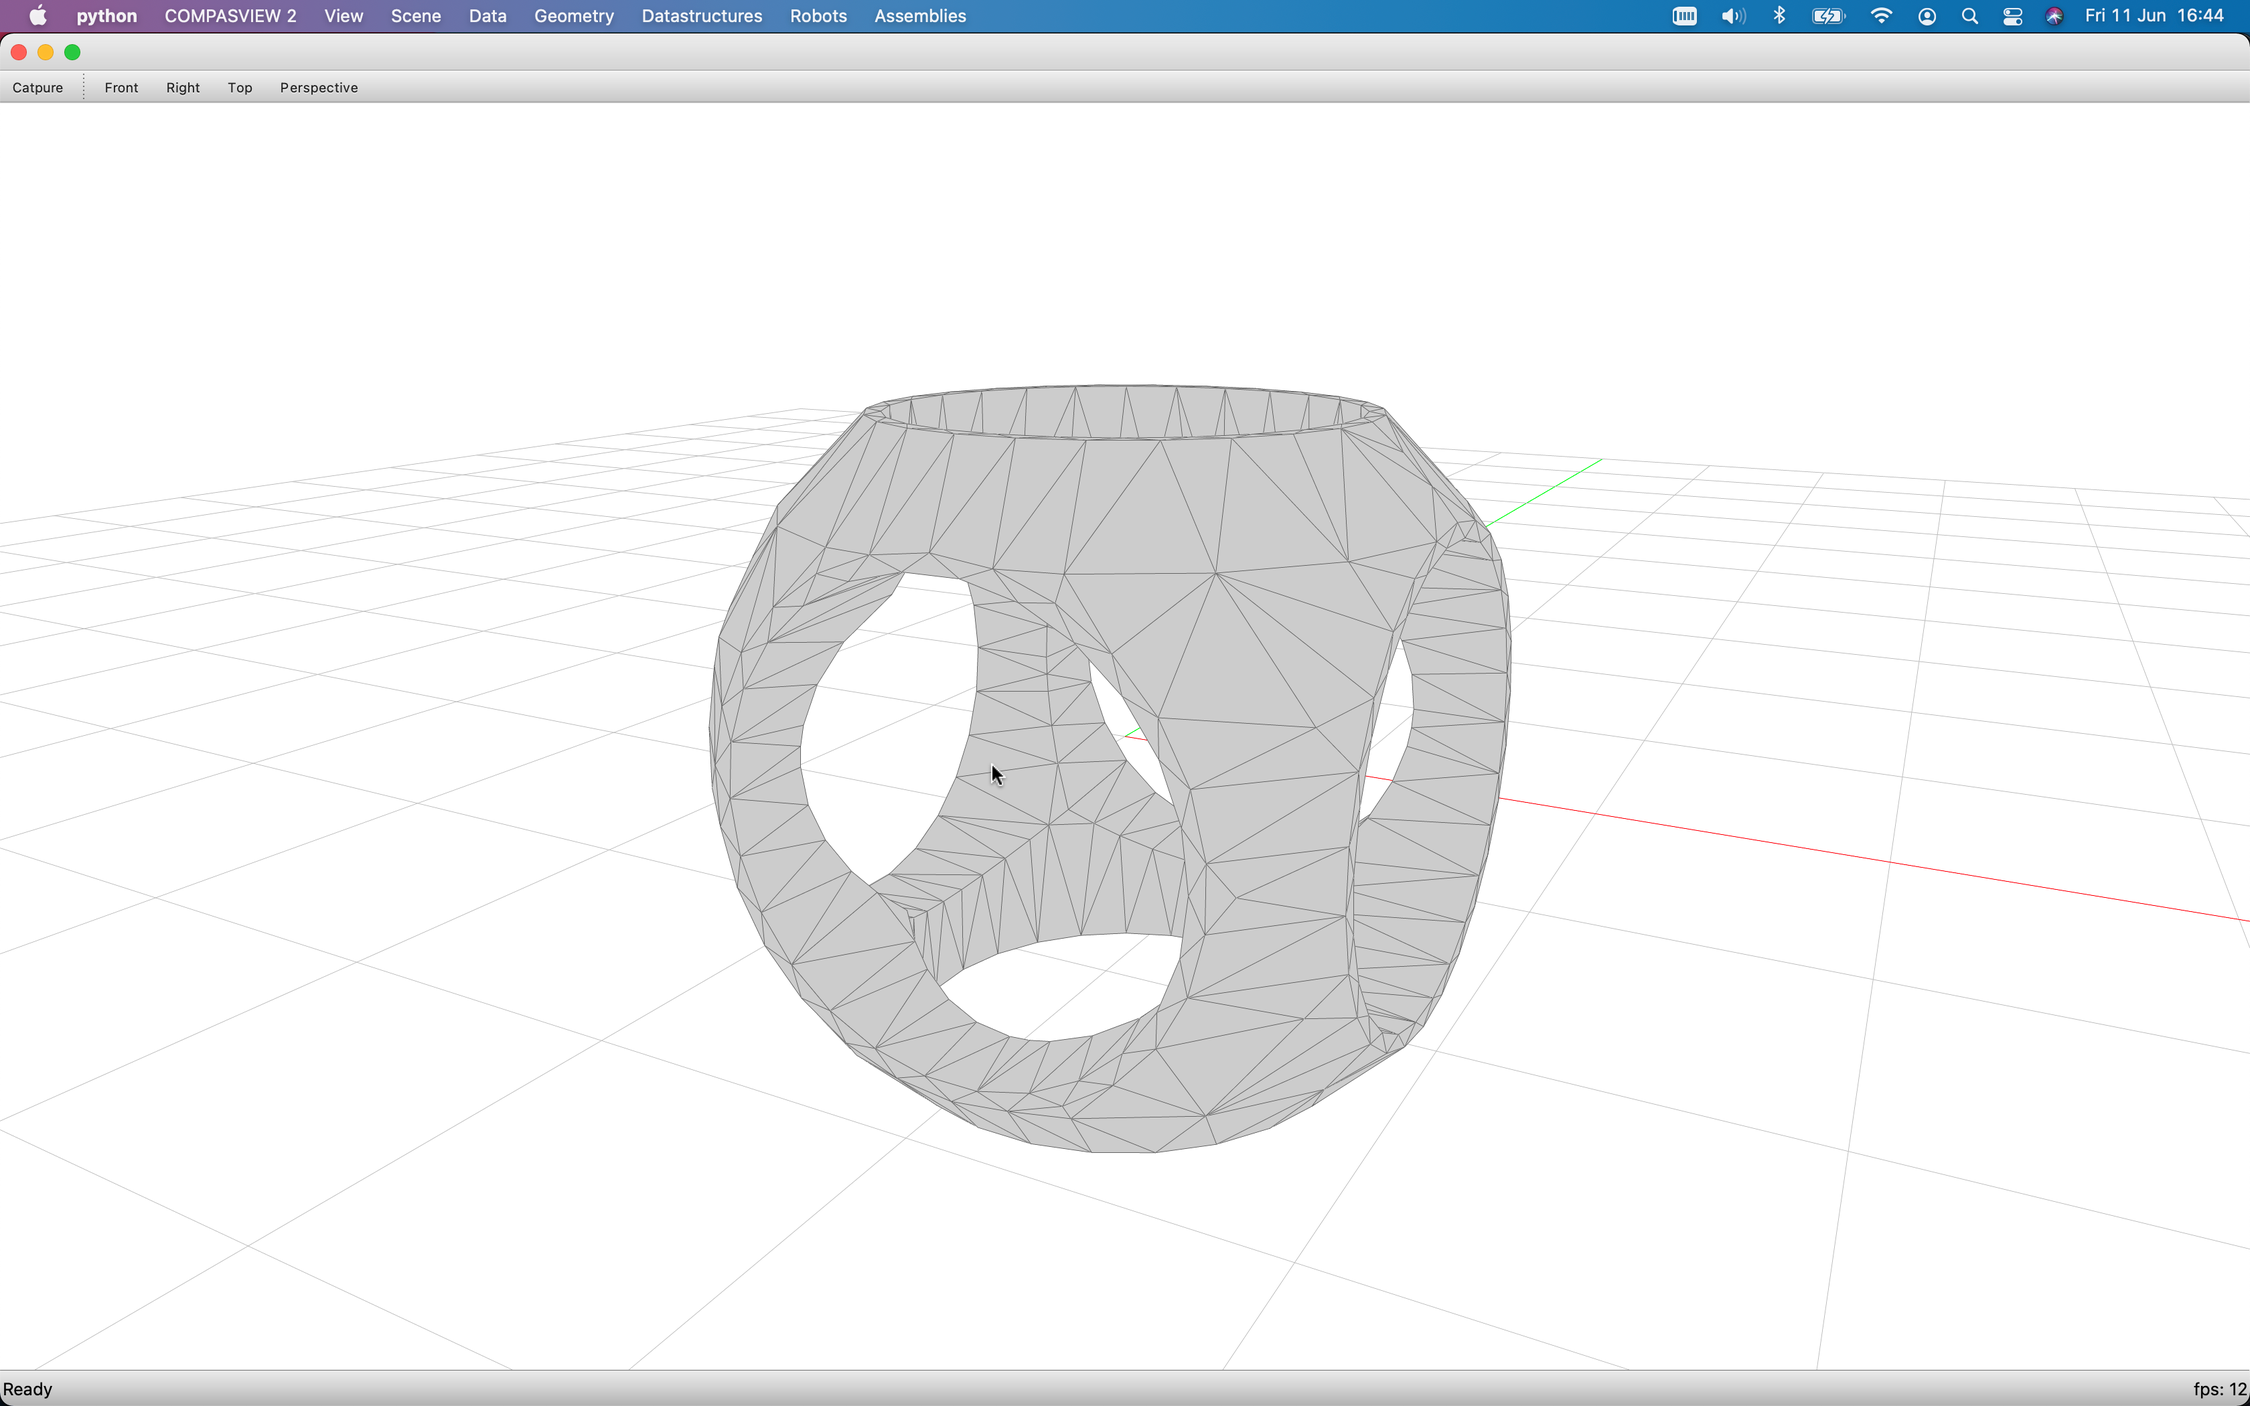
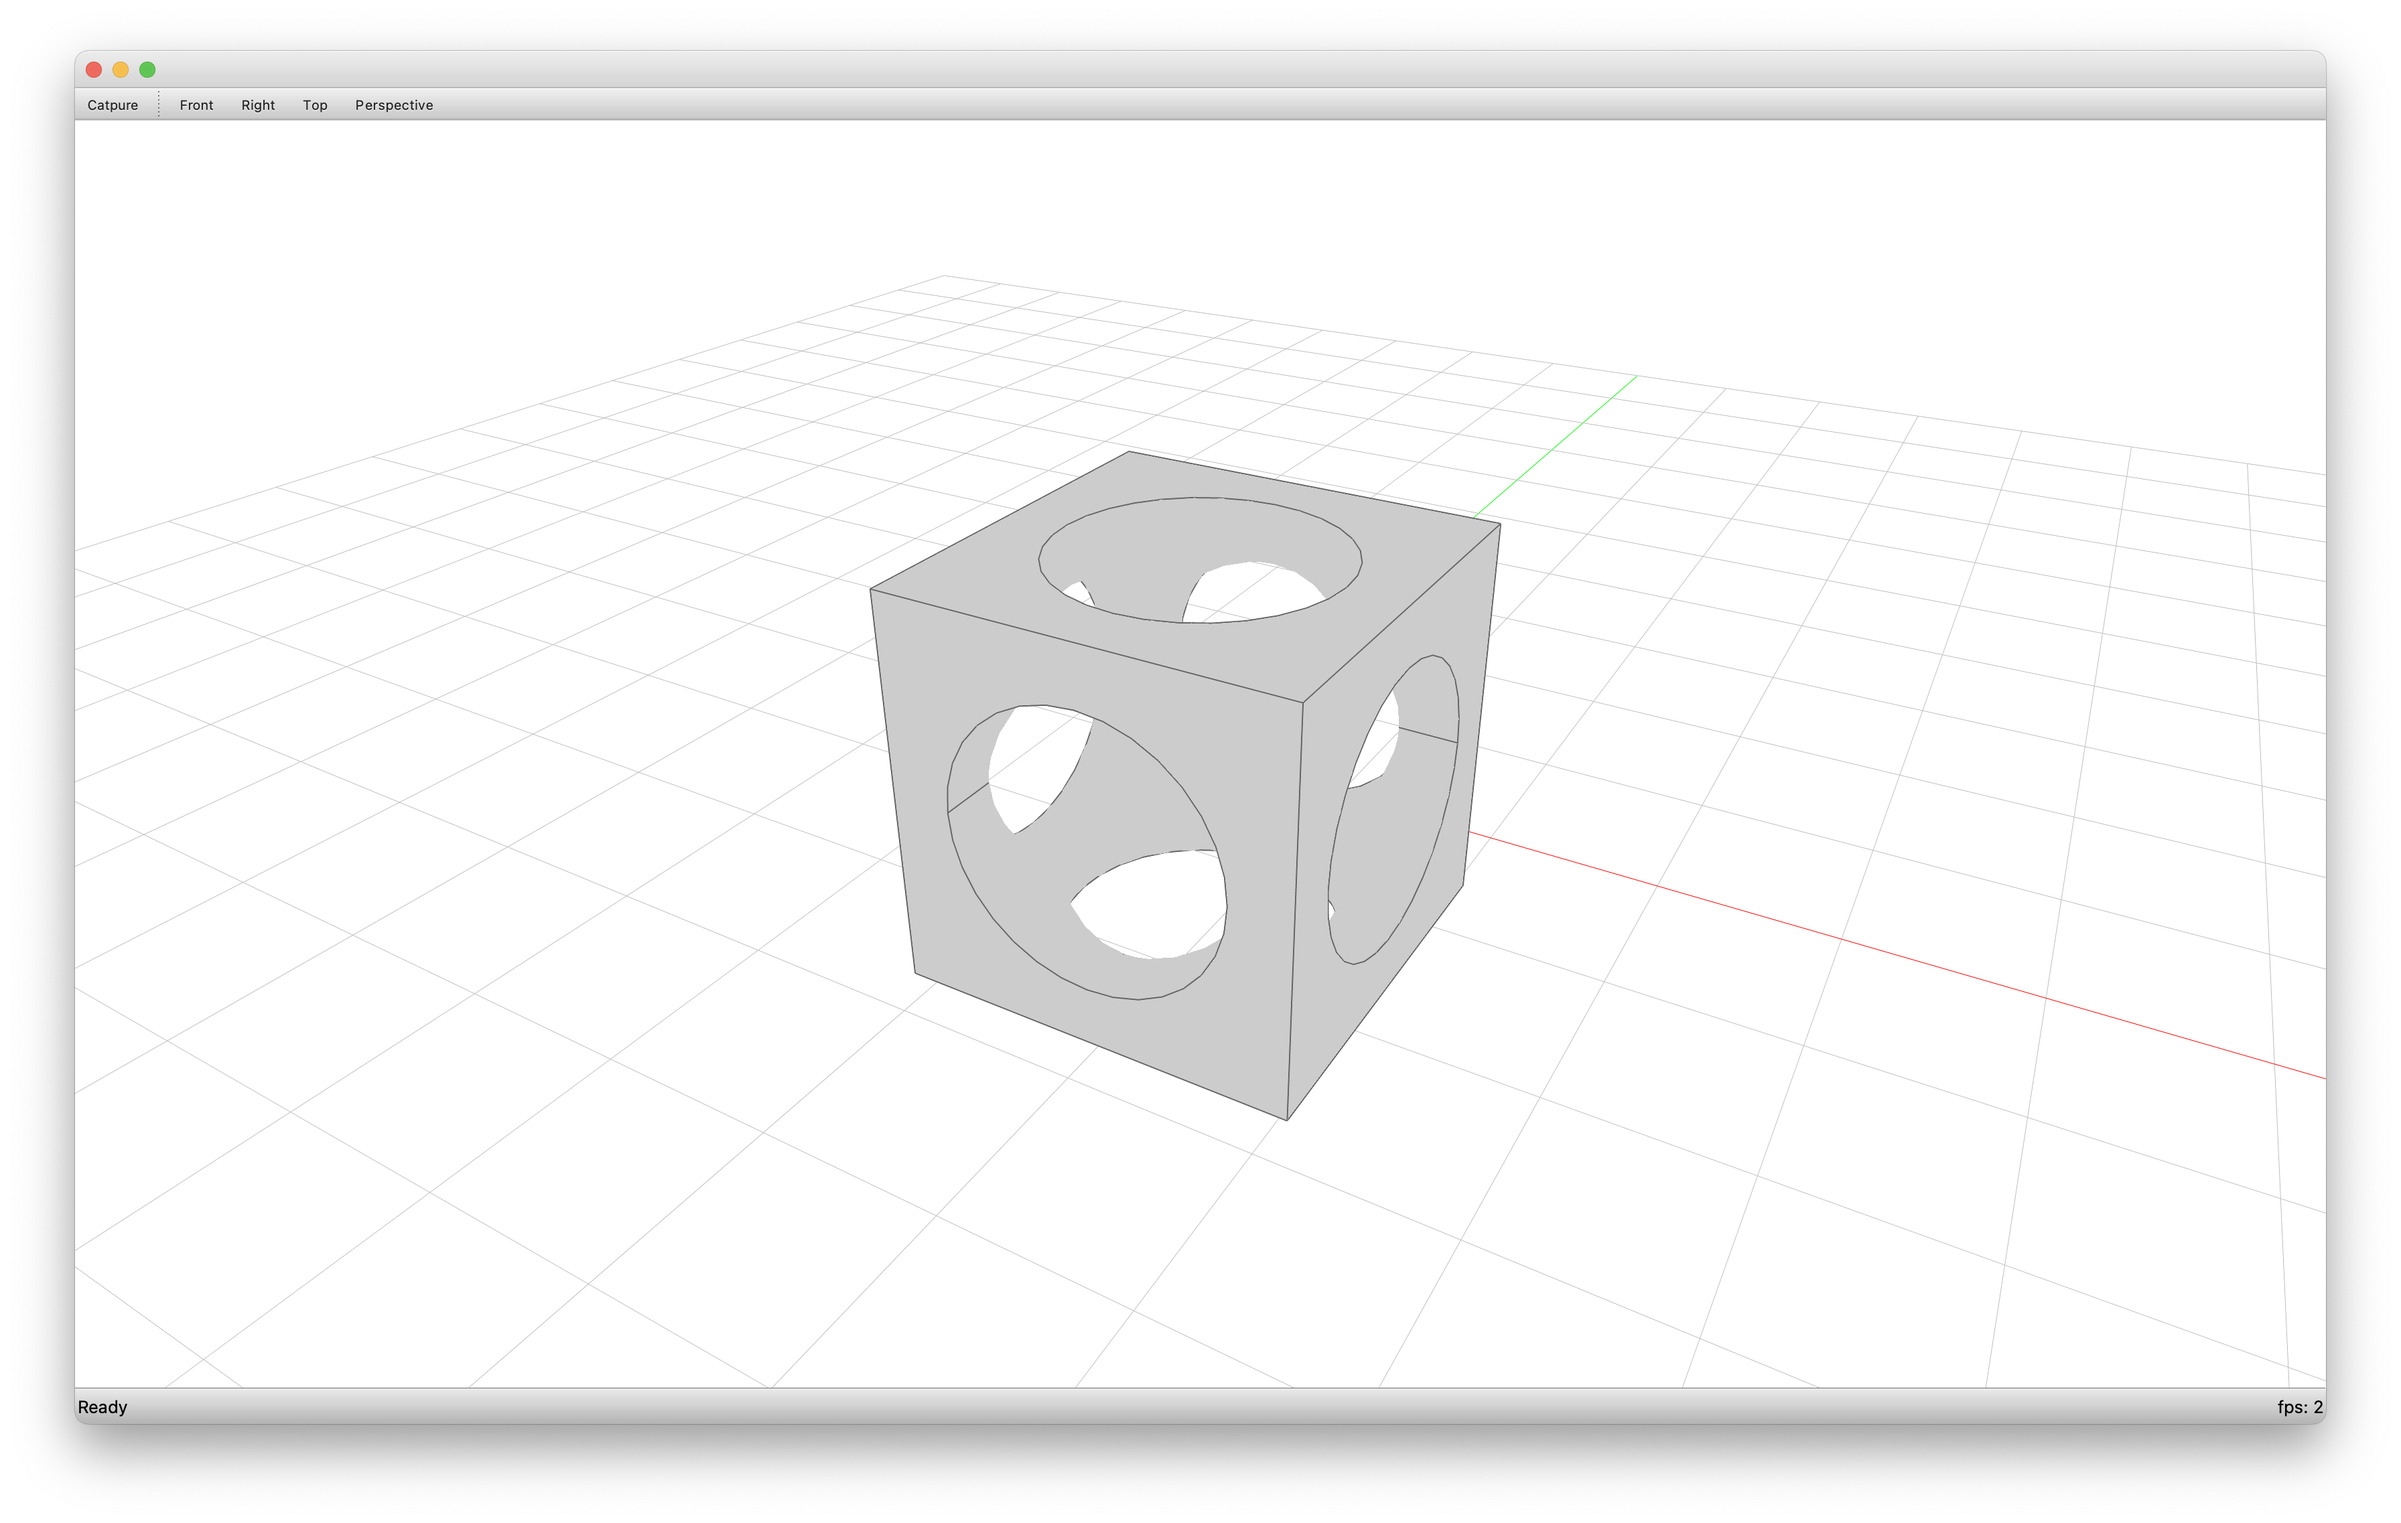
clean up surface examples

Changed region(s): [[0.0, 0.0, 1.0, 1.0], [0.25, 0.2476, 0.6875, 0.8357]]

diff --git a/docs/examples/brep_from_booleans.py b/docs/examples/brep_from_booleans.py
@@ -1,8 +1,8 @@
 from compas.geometry import Point, Vector, Plane
 from compas.geometry import Box
-from compas.geometry import Sphere
 from compas.geometry import Cylinder
 from compas_occ.brep import BRep
+
 from compas_view2.app import App
 
 R = 1.4
@@ -15,28 +15,45 @@ ZX = Plane(P, Y)
 XY = Plane(P, Z)
 
 box = Box.from_width_height_depth(2 * R, 2 * R, 2 * R)
-sphere = Sphere([0, 0, 0], 1.25 * R)
-
-cylx = Cylinder((YZ, 0.7 * R), 4 * R)
-cyly = Cylinder((ZX, 0.7 * R), 4 * R)
-cylz = Cylinder((XY, 0.7 * R), 4 * R)
+cx = Cylinder((YZ, 0.7 * R), 4 * R)
+cy = Cylinder((ZX, 0.7 * R), 4 * R)
+cz = Cylinder((XY, 0.7 * R), 4 * R)
 
 A = BRep.from_box(box)
-B = BRep.from_sphere(sphere)
+B1 = BRep.from_cylinder(cx)
+B2 = BRep.from_cylinder(cy)
+B3 = BRep.from_cylinder(cz)
+C = BRep.from_boolean_difference(A, BRep.from_boolean_union(BRep.from_boolean_union(B1, B2), B3))
 
-C = BRep.from_cylinder(cylx)
-D = BRep.from_cylinder(cyly)
-E = BRep.from_cylinder(cylz)
+lines = []
+circles = []
+ellipses = []
 
-F = BRep.from_boolean_difference(
-    BRep.from_boolean_intersection(A, B),
-    BRep.from_boolean_union(BRep.from_boolean_union(C, D), E),
-)
+for edge in C.edges:
+    if edge.is_line:
+        lines.append(edge.to_line())
+    elif edge.is_circle:
+        circles.append(edge.to_circle())
+    elif edge.is_ellipse:
+        ellipses.append(edge.to_ellipse())
+    else:
+        raise NotImplementedError
 
 # ==============================================================================
 # Visualisation
 # ==============================================================================
 
 viewer = App()
-viewer.add(F.to_tesselation())
+
+viewer.add(C.to_tesselation(), show_edges=False)
+
+for line in lines:
+    viewer.add(line, linewidth=2)
+
+for circle in circles:
+    viewer.add(circle, linewidth=2, u=64)
+
+for ellipse in ellipses:
+    viewer.add(ellipse, linewidth=2, u=64)
+
 viewer.run()
